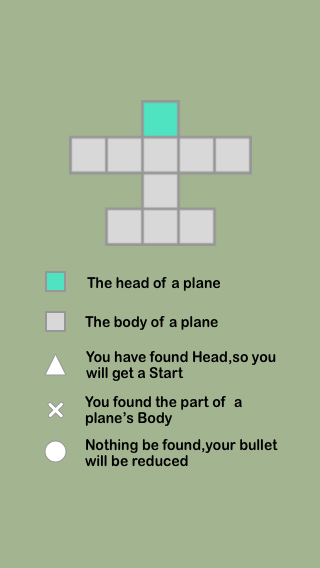
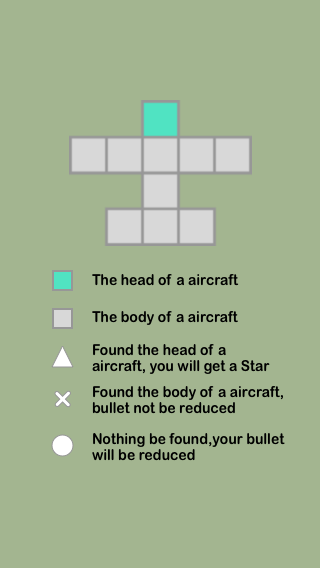
update HelpScene

Changed region(s): [[0.125, 0.4789, 0.9062, 0.838], [0.2812, 0.4789, 0.75, 0.5088]]

diff --git a/Cocoa2Demo/Source/MainScene.m b/Cocoa2Demo/Source/MainScene.m
@@ -49,24 +49,18 @@ static SceneStyle _style = FailureStyle;
     [self addChild:headSprite];
     
    
-    
+    NSString *btnName = _style == SuccessSytle ? @"start new" : @"play again";
+    XCGameButton *backButton = [XCGameButton gameButtonWithTitle:[NSString adaptedString:btnName]];
     if (_style == FailureStyle) {
         CCActionRotateBy *rotateBy = [CCActionRotateBy actionWithDuration:0.15 angleX:5 angleY:0];
         CCActionRotateBy *rotateY = [CCActionRotateBy actionWithDuration:0.15 angleX:-5 angleY:0];
         CCActionSequence *as = [CCActionSequence actions:rotateY,[rotateY reverse],rotateBy,[rotateBy reverse], nil];
         CCActionRepeat *ar = [CCActionRepeat actionWithAction:as times:2];
         [headSprite runAction:ar];
-        XCGameButton *backButton = [XCGameButton gameButtonWithTitle:[NSString adaptedString:@"play again"]];
-        [backButton setTarget:self selector:@selector(playAgain)];
-        backButton.position = ccp(0.5, 0.5);
-        [self addChild:backButton];
-       
-    }else{
-         XCGameButton *newButton = [XCGameButton gameButtonWithTitle:[NSString adaptedString:@"start new"]];
-        [newButton setTarget:self selector:@selector(startNew)];
-        newButton.position = ccp(0.5, 0.5);
-         [self addChild:newButton];
     }
+    [backButton setTarget:self selector:@selector(clickButton)];
+    backButton.position = ccp(0.5, 0.5);
+    [self addChild:backButton];
    
 
     
@@ -75,19 +69,10 @@ static SceneStyle _style = FailureStyle;
 }
 
 #pragma  mark - UI Event
-- (void)playAgain{
-    self.valueStyle = SceneForRefresh;
-    [self popMainScene];
-}
-- (void)startNew{
-    self.valueStyle = SceneForReloadDataAndRefresh;
-    [self popMainScene];
-}
-
-
-- (void)popMainScene{
-    
+- (void)clickButton{
+    self.valueStyle = _style == SuccessSytle ? SceneForReloadDataAndRefresh : SceneForRefresh;
     [[CCDirector sharedDirector] popScene];
 }
+
 
 @end
